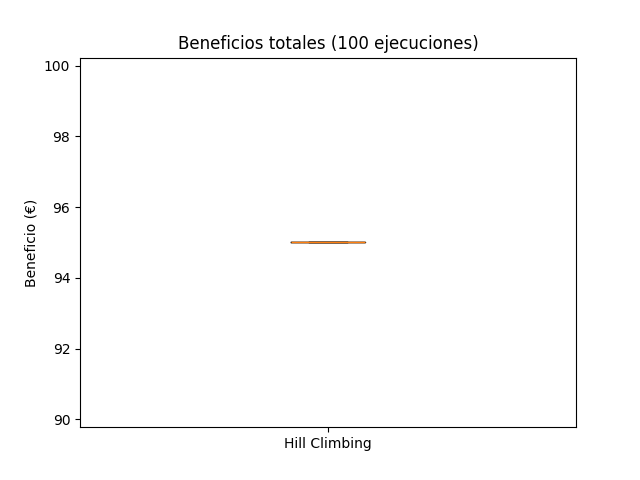
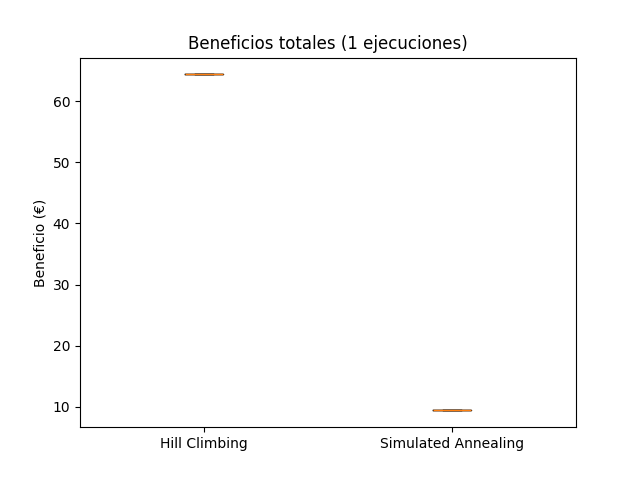
generate actions SA

diff --git a/main.py b/main.py
@@ -180,7 +180,7 @@ def comparar_resultados_HC_SA(HC: bool = True, SA: bool = True, iterations: int 
 
         # Experimento con Simulated Annealing
         if SA:
-            problema_bicing.mode_simulated_annealing = True
+            problema_bicing.mode_simulated_annealing = True # Indicamos al problema que estamos en modo Simulated Annealing
             inicio_SA = time.time()
             resultado_SA = simulated_annealing(problema_bicing, schedule=schedule_sa)
             tiempos_SA.append((time.time() - inicio_SA)*1000)
@@ -270,7 +270,7 @@ if __name__ == "__main__":
     def exp_schedule(t, k: float=0, lam: float=0):
         return k * exp(-lam * t)
     
-    #comparar_resultados_HC_SA(opt=2, HC=True, SA=True, iterations=100, schedule_sa=exp_schedule)
+    comparar_resultados_HC_SA(opt=2, HC=True, SA=True, iterations=1, schedule_sa=exp_schedule)
 
 # Experimento 4 ----------------------------------------------------------------------------------
     
